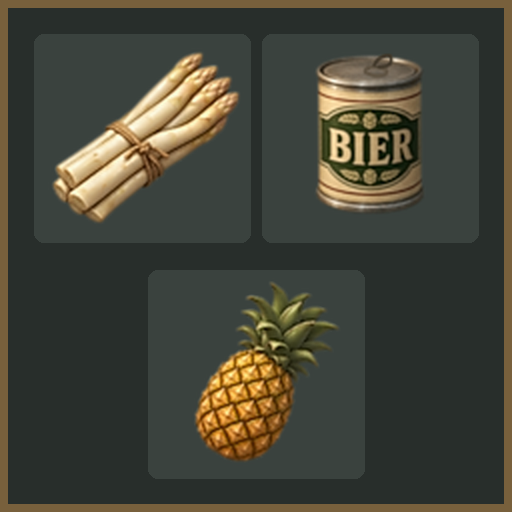
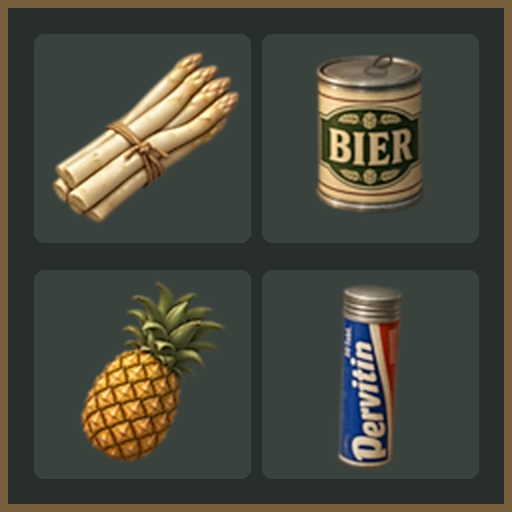
Kaffee-Symbol: Pervitin-Röhrchen
- icons/Coffee.png (Bild vom Nutzer, 1:1 übernommen), Verschiebung wie bei den anderen Symbolen
- build_bundle.py und test_bundle.py um Coffee erweitert; Bundle, Preview.png neu gebaut, alle Prüfungen bestanden
- README, Manifest-Beschreibung und CHANGELOG ergänzt

Im Spiel noch nicht getestet.

Claude-Session: https://claude.ai/code/session_01SoarpVZs88pGVuoKb6bgrX

Changed region(s): [[0.1562, 0.5312, 0.8125, 0.9375]]

diff --git a/tools/make_preview.py b/tools/make_preview.py
@@ -1,4 +1,4 @@
-"""Erzeugt mod/Uboat-Smutje/Preview.png aus den drei Symbolen (für Launcher und Workshop)."""
+"""Erzeugt mod/Uboat-Smutje/Preview.png aus den Symbolen (für Launcher und Workshop)."""
 import sys
 from pathlib import Path
 
@@ -6,14 +6,14 @@ from PIL import Image, ImageDraw
 
 icons = Path(sys.argv[1] if len(sys.argv) > 1 else "icons")
 out = Path(sys.argv[2] if len(sys.argv) > 2 else "mod/Uboat-Smutje/Preview.png")
-names = ["Vegetables", "Canned Bread", "Exotic Fruits"]
+names = ["Vegetables", "Canned Bread", "Exotic Fruits", "Coffee"]
 img = Image.new("RGBA", (512, 512), (40, 46, 43, 255))
 d = ImageDraw.Draw(img)
 d.rectangle((0, 0, 511, 511), outline=(120, 96, 60, 255), width=8)
 for i, n in enumerate(names):
     ic = Image.open(icons / f"{n}.png").convert("RGBA").resize((204, 196), Image.LANCZOS)
-    x = 40 + (i % 2) * 228 if i < 2 else 154
-    y = 40 if i < 2 else 276
+    x = 40 + (i % 2) * 228
+    y = 40 + (i // 2) * 236
     d.rounded_rectangle((x - 6, y - 6, x + 210, y + 202), 10, fill=(58, 66, 62, 255))
     img.alpha_composite(ic, (x, y))
 img.convert("RGB").save(out)

diff --git a/tests/test_bundle.py b/tests/test_bundle.py
@@ -15,7 +15,7 @@ from icon_offsets import load_offsets, shifted_icon  # noqa: E402
 
 BUNDLE = ROOT / "mod" / "Uboat-Smutje" / "Bundles" / "uboat-smutje"
 ICONS = ROOT / "icons"
-EXPECTED = {"Vegetables", "Canned Bread", "Exotic Fruits"}
+EXPECTED = {"Vegetables", "Canned Bread", "Exotic Fruits", "Coffee"}
 fails = 0
 
 
@@ -86,7 +86,7 @@ check((script["m_Namespace"], script["m_ClassName"]) == ("DWS.Common.Resources",
       "Manifest-Skript ist die Spielklasse AssetBundleDescriptor")
 
 raw = b"".join(f.save() for f in bundle.files.values())
-for word in (b"authentic", b"Pervitin", b"MedKit", b"Sausages", b"Coffee", b"Cheese", b"Potatoes"):
+for word in (b"authentic", b"Pervitin", b"MedKit", b"Sausages", b"Cheese", b"Potatoes"):
     check(word.lower() not in raw.lower(), f"keine Reste von {word.decode()} im Bundle")
 
 print(f"\n{fails} Fehler" if fails else "\nAlle Prüfungen bestanden")

diff --git a/tools/build_bundle.py b/tools/build_bundle.py
@@ -20,7 +20,7 @@ from icon_offsets import shifted_icon
 
 BUNDLE_NAME = "uboat-smutje"
 # Spielinterner Name des Gegenstands -> PNG-Datei im Symbolordner
-ICONS = ["Vegetables", "Canned Bread", "Exotic Fruits"]
+ICONS = ["Vegetables", "Canned Bread", "Exotic Fruits", "Coffee"]
 KEEP_TYPES = {"AssetBundle", "MonoScript"}
 GUID_NS = uuid.UUID("6f0e1c8e-3b5a-4a59-9d0e-5b0a7a1f5e11")
 

diff --git a/CHANGELOG.md b/CHANGELOG.md
@@ -13,6 +13,8 @@
 - Symbole beim Bau verschiebbar über `icons/verschiebung.json`; alle drei 4 px nach links und 2 px nach oben,
   damit die Mengenzahl weniger verdeckt.
 
+- Kaffee (`Coffee`) zeigt ein Pervitin-Röhrchen (Bild vom Nutzer); Name und Wirkung unverändert.
+
 ### Behoben
 - Oberer Teil der Bierdose (Deckel) fehlte im Spiel: Die Sprites hatten noch den engen Umriss der Gerüst-Bilder.
   Umriss und Zeichenbereich sind jetzt das volle Bild 102 x 98.
@@ -21,4 +23,4 @@
 - Im Spiel (Nutzer): Mod lädt, Spargel, Ananas und Bierdose erscheinen.
 
 ### Noch nicht geprüft
-- Im Spiel: vollständige Bierdose nach der Korrektur des Umrisses und Lage der Symbole nach der Verschiebung.
+- Im Spiel: Kaffee-Symbol; vollständige Bierdose nach der Korrektur des Umrisses und Lage der Symbole nach der Verschiebung.
